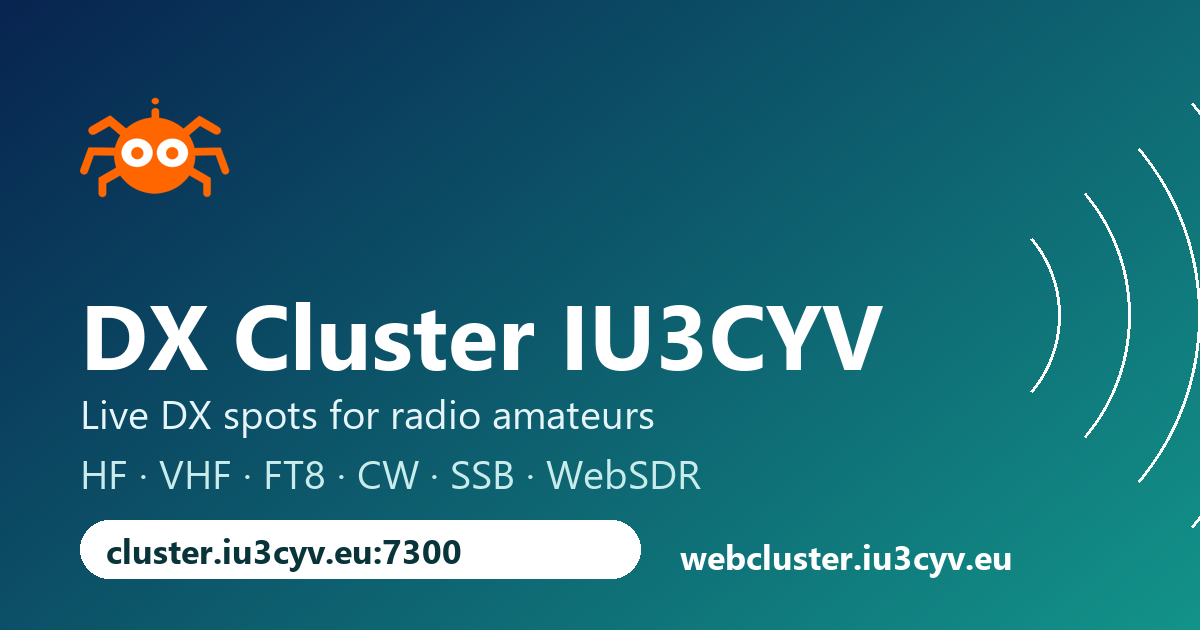
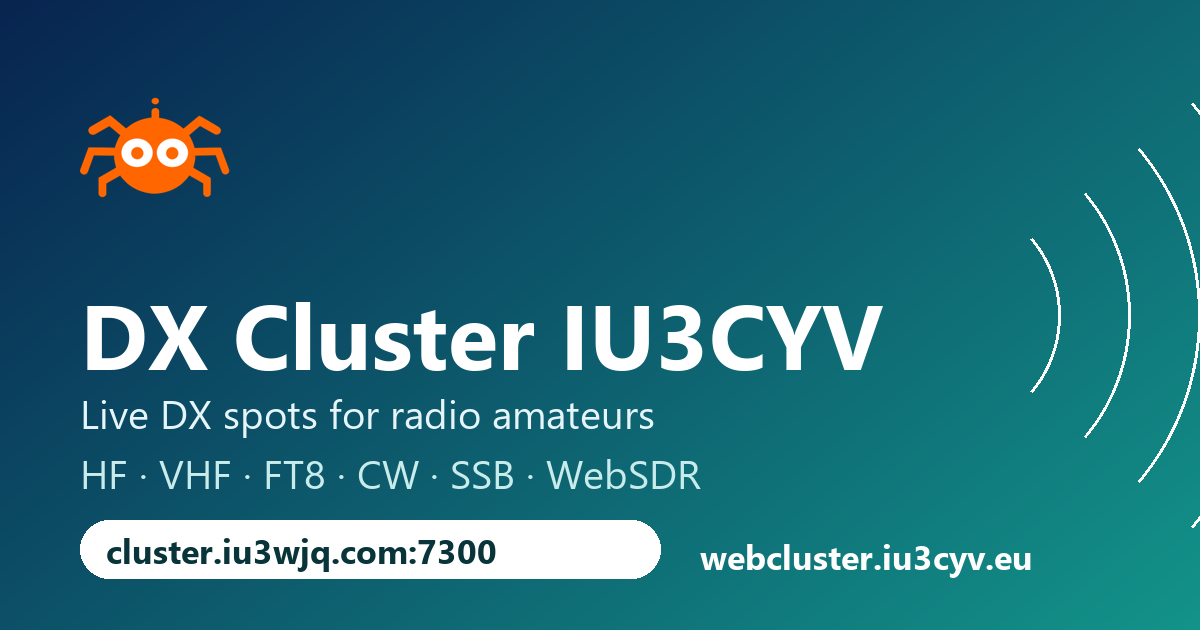
Indirizzo telnet pubblico: cluster.iu3wjq.com

Changed region(s): [[0.5242, 0.8143, 0.8633, 0.9349], [0.2158, 0.8444, 0.4317, 0.9048]]

diff --git a/templates/guide_en.html b/templates/guide_en.html
@@ -1,6 +1,6 @@
 {% extends "_base.html" %}
 {% set seo_title = 'What is a DX Cluster? Guide to DX Spots, Bands and Telnet | IU3CYV' %}
-{% set seo_desc = 'What a DX Cluster is, how to read DX spots, which bands and modes (FT8, CW, SSB) to watch and how to connect by telnet to cluster.iu3cyv.eu:7300. A practical guide for radio amateurs.' %}
+{% set seo_desc = 'What a DX Cluster is, how to read DX spots, which bands and modes (FT8, CW, SSB) to watch and how to connect by telnet to cluster.iu3wjq.com:7300. A practical guide for radio amateurs.' %}
 {% set seo_path = '/dx-cluster.html' %}
 {% block title %}
 <title>What is a DX Cluster? Guide to DX Spots, Bands and Telnet | IU3CYV</title>
@@ -32,7 +32,7 @@
         {"@type": "Question", "name": "What is a DX spot?",
          "acceptedAnswer": {"@type": "Answer", "text": "A DX spot is a short report that a radio amateur sends to a DX cluster when they hear or work a distant station. It contains the frequency, the callsign of the DX station, the spotter, the time and a free comment such as the mode and the signal report."}},
         {"@type": "Question", "name": "How do I connect to this DX cluster?",
-         "acceptedAnswer": {"@type": "Answer", "text": "Open a telnet client and connect to cluster.iu3cyv.eu on port 7300, then log in with your callsign. You can also simply read the spots on the web page."}},
+         "acceptedAnswer": {"@type": "Answer", "text": "Open a telnet client and connect to cluster.iu3wjq.com on port 7300, then log in with your callsign. You can also simply read the spots on the web page."}},
         {"@type": "Question", "name": "Which frequencies are used for FT8?",
          "acceptedAnswer": {"@type": "Answer", "text": "The common FT8 dial frequencies are 1.840, 3.573, 7.074, 10.136, 14.074, 18.100, 21.074, 24.915, 28.074 and 50.313 MHz."}},
         {"@type": "Question", "name": "Is it free?",
@@ -89,8 +89,8 @@
 
 	<h2>How to connect by telnet</h2>
 	<p>You can also use the cluster directly from a logging program or a terminal. Connect with a telnet client to
-		<code>cluster.iu3cyv.eu</code> on port <code>7300</code> and log in with your callsign:</p>
-	<pre><code>telnet cluster.iu3cyv.eu 7300</code></pre>
+		<code>cluster.iu3wjq.com</code> on port <code>7300</code> and log in with your callsign:</p>
+	<pre><code>telnet cluster.iu3wjq.com 7300</code></pre>
 	<p>Useful DXSpider commands: <code>sh/dx</code> shows the latest spots, <code>sh/dx on 20m</code> filters a band,
 		<code>dx 14074 CALLSIGN FT8</code> announces a spot of your own.</p>
 

diff --git a/templates/guide_it.html b/templates/guide_it.html
@@ -1,6 +1,6 @@
 {% extends "_base.html" %}
 {% set seo_title = 'Cos’è un DX Cluster? Guida a spot DX, bande e telnet | IU3CYV' %}
-{% set seo_desc = 'Cos’è un DX Cluster, come leggere gli spot DX, quali bande e modi (FT8, CW, SSB) seguire e come collegarsi via telnet a cluster.iu3cyv.eu:7300. Guida pratica per radioamatori.' %}
+{% set seo_desc = 'Cos’è un DX Cluster, come leggere gli spot DX, quali bande e modi (FT8, CW, SSB) seguire e come collegarsi via telnet a cluster.iu3wjq.com:7300. Guida pratica per radioamatori.' %}
 {% set seo_path = '/guida-dx-cluster.html' %}
 {% set seo_locale = 'it_IT' %}
 {% set page_lang = 'it' %}
@@ -34,7 +34,7 @@
         {"@type": "Question", "name": "Cos’è uno spot DX?",
          "acceptedAnswer": {"@type": "Answer", "text": "Uno spot DX è una breve segnalazione che un radioamatore invia al DX cluster quando ascolta o collega una stazione lontana. Contiene la frequenza, il nominativo della stazione DX, lo spotter, l'ora e un commento libero, per esempio il modo e il rapporto di segnale."}},
         {"@type": "Question", "name": "Come mi collego a questo DX cluster?",
-         "acceptedAnswer": {"@type": "Answer", "text": "Apri un programma telnet e collegati a cluster.iu3cyv.eu sulla porta 7300, poi entra con il tuo nominativo. Puoi anche leggere gli spot direttamente sulla pagina web."}},
+         "acceptedAnswer": {"@type": "Answer", "text": "Apri un programma telnet e collegati a cluster.iu3wjq.com sulla porta 7300, poi entra con il tuo nominativo. Puoi anche leggere gli spot direttamente sulla pagina web."}},
         {"@type": "Question", "name": "Su quali frequenze si trova l'FT8?",
          "acceptedAnswer": {"@type": "Answer", "text": "Le frequenze FT8 più usate sono 1.840, 3.573, 7.074, 10.136, 14.074, 18.100, 21.074, 24.915, 28.074 e 50.313 MHz."}},
         {"@type": "Question", "name": "È gratuito?",
@@ -92,8 +92,8 @@
 
 	<h2>Come collegarsi via telnet</h2>
 	<p>Puoi usare il cluster anche da un programma di log o da un terminale. Collegati con un client telnet a
-		<code>cluster.iu3cyv.eu</code> sulla porta <code>7300</code> ed entra con il tuo nominativo:</p>
-	<pre><code>telnet cluster.iu3cyv.eu 7300</code></pre>
+		<code>cluster.iu3wjq.com</code> sulla porta <code>7300</code> ed entra con il tuo nominativo:</p>
+	<pre><code>telnet cluster.iu3wjq.com 7300</code></pre>
 	<p>Comandi DXSpider utili: <code>sh/dx</code> mostra gli ultimi spot, <code>sh/dx on 20m</code> filtra una
 		banda, <code>dx 14074 NOMINATIVO FT8</code> invia un tuo spot.</p>
 

diff --git a/templates/index.html b/templates/index.html
@@ -1,6 +1,6 @@
 {% extends "_base.html" %}
 {% set seo_title = seo_title|default('DX Cluster IU3CYV - Live DX Spots for Radio Amateurs (FT8, CW, SSB)') %}
-{% set seo_desc = seo_desc|default('Live web DX Cluster: real-time DX spots on HF and VHF with band, mode and country. Filter FT8, CW and SSB, find DXpeditions, listen on WebSDR. Telnet cluster.iu3cyv.eu:7300.') %}
+{% set seo_desc = seo_desc|default('Live web DX Cluster: real-time DX spots on HF and VHF with band, mode and country. Filter FT8, CW and SSB, find DXpeditions, listen on WebSDR. Telnet cluster.iu3wjq.com:7300.') %}
 {% set seo_path = seo_path|default('/') %}
 
 <head>
@@ -12,7 +12,7 @@
     {
       "@type": "WebSite",
       "name": "IU3CYV DX Cluster",
-      "alternateName": ["Web DX Cluster IU3CYV", "cluster.iu3cyv.eu"],
+      "alternateName": ["Web DX Cluster IU3CYV", "cluster.iu3wjq.com"],
       "url": "{{ site_url }}/",
       "inLanguage": ["en", "it", "pt", "es", "ru", "fr", "de", "ja", "zh"]
     },
@@ -350,7 +350,7 @@
 			FT4, <strong>CW</strong>, <strong>SSB</strong>, RTTY), country and comments reported by radio amateurs around
 			the world through <strong>DXSpider</strong>. Filter by HF band or VHF, by mode or by text, listen to a
 			signal on <strong>WebSDR</strong>, follow DXpeditions and check HF <a href="/propagation.html">propagation</a>.
-			Telnet access: <code>cluster.iu3cyv.eu:7300</code>.
+			Telnet access: <code>cluster.iu3wjq.com:7300</code>.
 			<a href="/dx-cluster.html">Read the guide</a>.</p>
 	</div>
 	<div class="wc-about-col" lang="it">
@@ -359,7 +359,7 @@
 			(<strong>FT8</strong>, FT4, <strong>CW</strong>, <strong>SSB</strong>, RTTY), paese e commenti segnalati dai
 			radioamatori di tutto il mondo tramite <strong>DXSpider</strong>. Filtra per banda HF o VHF, per modo o per
 			testo, ascolta un segnale su <strong>WebSDR</strong>, segui le DXpedition e controlla la
-			<a href="/propagation.html">propagazione</a> HF. Accesso telnet: <code>cluster.iu3cyv.eu:7300</code>.
+			<a href="/propagation.html">propagazione</a> HF. Accesso telnet: <code>cluster.iu3wjq.com:7300</code>.
 			<a href="/guida-dx-cluster.html">Leggi la guida</a>.</p>
 	</div>
 </section>

diff --git a/templates/_base.html b/templates/_base.html
@@ -8,7 +8,7 @@
 
 	<meta charset="utf-8">
 	{% set _title = seo_title|default('DX Cluster IU3CYV - Live DX Spots for Radio Amateurs') %}
-	{% set _desc = seo_desc|default('Live web DX Cluster for radio amateurs: real-time DX spots on HF and VHF, filter by band and mode (FT8, CW, SSB), find DXpeditions and listen on WebSDR. Telnet access cluster.iu3cyv.eu:7300.') %}
+	{% set _desc = seo_desc|default('Live web DX Cluster for radio amateurs: real-time DX spots on HF and VHF, filter by band and mode (FT8, CW, SSB), find DXpeditions and listen on WebSDR. Telnet access cluster.iu3wjq.com:7300.') %}
 	{% set _url = site_url ~ (seo_path|default('/')) %}
 	<meta name="description" content="{{ _desc }}">
 	<meta name="author" content="IU3CYV DX Cluster">
@@ -130,8 +130,8 @@
 				{% endblock %}
 			</div>
 			<div class="wc-hero-links">
-				<a href="telnet://cluster.iu3cyv.eu:7300" class="wc-chip" title="Telnet access" data-i18n-title="telnet_title">
-					<i class="bi-terminal"></i> telnet cluster.iu3cyv.eu:7300
+				<a href="telnet://cluster.iu3wjq.com:7300" class="wc-chip" title="Telnet access" data-i18n-title="telnet_title">
+					<i class="bi-terminal"></i> telnet cluster.iu3wjq.com:7300
 				</a>
 				<a href="mailto:{{ mail }}?Subject=Connect%20my%20DxCluster%20node" target="_top" class="wc-chip" title="Connect your cluster" data-i18n-title="connect">
 					<i class="bi-envelope"></i> <span data-i18n="connect">Connect your cluster</span>

diff --git a/docs/FORK.md b/docs/FORK.md
@@ -57,6 +57,7 @@ Google Search Console: proprietà `https://webcluster.iu3cyv.eu/` verificata con
 
 Il portale legge gli spot dal database MariaDB riempito da DXSpider (servizio `dxspider`, cartella `/spider`, ramo `mojo`).
 
+- **Indirizzo telnet pubblico:** `cluster.iu3wjq.com:7300` (dal 18/11/2026; `cluster.iu3cyv.eu` punta ancora allo stesso server, 93.48.229.84). Il sito web resta su `webcluster.iu3cyv.eu`.
 - **Versione installata:** DXSpider v1.57 build 687 (git `9b55f03f`), aggiornata il 17/11/2026 dalla build 536. Il numero si vede nel piè di pagina del portale e in "Statistiche".
 - **Sorgente:** il repository originale `scm.dxcluster.org` non risponde più; `origin` punta al mirror `https://github.com/EA3CV/dxspider.git` (commit di Dirk Koopman). Aggiornare con `git pull` in `/spider` e riavviare il nodo dalla console con `shutdown` (systemd lo rialza da solo).
 - **Variabile rinominata:** nelle versioni nuove `$main::regreq` è diventata `$main::reqreg`; è già aggiornata in `/spider/scripts/startup`.
